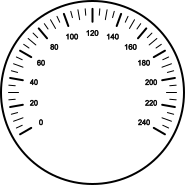
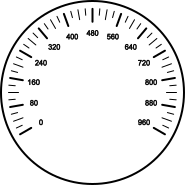
Adjusted GUI element margin

diff --git a/simulator/guitest_4.py b/simulator/guitest_4.py
@@ -11,7 +11,7 @@ from PyQt5 import QtGui
 from PyQt5 import QtCore
 from PyQt5.QtCore import pyqtSignal, QPoint, Qt
 from PyQt5.QtWebEngineWidgets import QWebEngineView
-from PyQt5.QtWidgets import QApplication, QWidget, QVBoxLayout, QHBoxLayout, QLabel, QPushButton, QLineEdit, QMainWindow, QGridLayout, QFrame
+from PyQt5.QtWidgets import QApplication, QWidget, QVBoxLayout, QHBoxLayout, QLabel, QPushButton, QLineEdit, QMainWindow, QGridLayout, QFrame, QSizePolicy
 from PyQt5.QtGui import QPainter, QPolygon, QColor, QPen
 import matplotlib.pyplot as plt
 from matplotlib.backends.backend_qt5agg import FigureCanvasQTAgg as FigureCanvas
@@ -44,11 +44,11 @@ class readTable(QWidget):
         long1 = float(row['LONGITUDE'])
         head1 = float(row['HEADING'])
         spd = float(row['STW'])
-        sfc1 = int(float(row['ENGINE_1_FUEL_CONSUMPTION']) + float(row['ENGINE_2_FUEL_CONSUMPTION']))
+        sfc1 = int((float(row['ENGINE_1_FUEL_CONSUMPTION']) + float(row['ENGINE_2_FUEL_CONSUMPTION']))/2)
 
         next_row = self.table[index + 1]
         head2 = float(next_row['HEADING'])
-        sfc2 = int(float(next_row['ENGINE_1_FUEL_CONSUMPTION']) + float(next_row['ENGINE_2_FUEL_CONSUMPTION']))
+        sfc2 = int((float(next_row['ENGINE_1_FUEL_CONSUMPTION']) + float(next_row['ENGINE_2_FUEL_CONSUMPTION']))/2)
         if next_row:
             lat2 = float(next_row['LATITUDE'])
             long2 = float(next_row['LONGITUDE'])
@@ -61,7 +61,7 @@ class readTable(QWidget):
 class compass(QWidget):
     def __init__(self):
         super(compass, self).__init__()
-        self.setFixedSize(190, 250)
+        self.setFixedSize(190, 210)
         self.init_ui()
 
     def init_ui(self):
@@ -79,15 +79,17 @@ class compass(QWidget):
 
         # Add a label widget to name the dial
         self.label = QLabel('Heading')
-        self.label.setFixedSize(80, 20)
-        self.label.setAlignment(Qt.AlignCenter)
+        # self.label.setStyleSheet("background: rgb(255, 0, 0 );")
+        self.label.setSizePolicy(QSizePolicy.Expanding, QSizePolicy.Fixed)
+        # self.label.setFixedHeight(30)
+        self.label.setAlignment(Qt.AlignTop | Qt.AlignCenter)
         layout.addWidget(self.label)
 
         self.setLayout(layout)
 
     # Rorate the 'indicator_heading.png' image to the optimal position and replace the old one
     def update(self, rot_c, rot_i):
-        rot_i = (rot_i/1500)*270 - 135 + 90
+        rot_i = -(rot_i-rot_c)
 
         rot_indicator = QtGui.QPixmap.fromImage(ImageQt(self.indicator_new.rotate(-int(rot_i))))
         self.speedometer_ui.indicator.setPixmap(rot_indicator)
@@ -96,7 +98,7 @@ class compass(QWidget):
 class sfcDial(QWidget):
     def __init__(self):
         super(sfcDial, self).__init__()
-        self.setFixedSize(190, 250)
+        self.setFixedSize(190, 210)
         self.init_ui()
 
     def init_ui(self):
@@ -115,16 +117,21 @@ class sfcDial(QWidget):
 
         # Add a label to name the dial
         self.label = QLabel('SFC')
-        self.label.setFixedSize(80, 20)
-        self.label.setAlignment(Qt.AlignCenter)
+        # self.label.setFixedSize(80, 20)
+        # self.label.setAlignment(Qt.AlignCenter)
+        # self.label.setStyleSheet("background: rgb(255, 0, 0 );")
+        self.label.setSizePolicy(QSizePolicy.Expanding, QSizePolicy.Fixed)
+        # self.label.setFixedHeight(30)
+        self.label.setAlignment(Qt.AlignTop | Qt.AlignCenter)
         layout.addWidget(self.label)
+
 
         self.setLayout(layout)
 
     # Rotate the 'needle_spd.png' to show current SFC and 'indicator_spd.png' to show optimal SFC and replace the old ones
     def update(self, rot_n, rot_i):
-        rot_n = (rot_n/1500)*270 - 135
-        rot_i = (rot_i/1500)*270 - 135
+        rot_n = (rot_n/960)*240
+        rot_i = (rot_i/960)*240
 
         rot_needle = QtGui.QPixmap.fromImage(ImageQt(self.needle_new.rotate(-int(rot_n))))
         rot_indicator = QtGui.QPixmap.fromImage(ImageQt(self.indicator_new.rotate(-int(rot_i))))
@@ -134,7 +141,8 @@ class sfcDial(QWidget):
 # SFC plot
 class Canvas(FigureCanvas):
     def __init__(self, parent):
-        self.fig, self.ax = plt.subplots(figsize=(4.05, 1.9), dpi=100)
+        # self.fig, self.ax = plt.subplots(figsize=(4.05, 1.9), dpi=100)
+        self.fig, self.ax = plt.subplots(figsize=(1, 1), dpi=100)
         super().__init__(self.fig)
         self.setParent(parent)
 
@@ -144,6 +152,8 @@ class Canvas(FigureCanvas):
         self.line_2, = self.ax.plot(self.data_2, label='Optimal SFC')
 
         self.ax.set(xlabel='time (min)', ylabel='SFC (L/h)', title='SFC')
+        # adjust plot margin to show axis names
+        self.fig.subplots_adjust(left=0.22, right=0.9, top=0.88, bottom=0.25)
         self.ax.legend()
         self.ax.grid()
 
@@ -165,6 +175,9 @@ class AppDemo(QWidget):
         super().__init__()
 
         self.chart = Canvas(self)
+        layout = QHBoxLayout(self)
+        layout.setContentsMargins(0, 0, 0, 0)
+        layout.addWidget(self.chart)
 
     def add_data(self, new_value_1, new_value_2):
         self.chart.update_plot(new_value_1, new_value_2)
@@ -185,9 +198,13 @@ class infoDisplay(QWidget):
         # Need to initialize self.lables with the info we want to show
         # Then add each label widget in self.labels to the grid
         self.labels = []
+        self.variables = ['Latitude', 'Longitude', 'Speed', 'Heading']
         for i in range(2):
             for j in range(4):
-                label = QLabel(f'Label {i * 4 + j + 1}', self)
+                if (i * 4 + j) < len(self.variables):
+                    label = QLabel(self.variables[i*4+j], self)
+                else:
+                    label = QLabel(f'Label {i * 4 + j + 1}', self)
                 label.setFrameShape(QFrame.Box)
                 #label.setStyleSheet("padding: 5px; border: 1px solid white; color: white;")
                 #label.setStyleSheet("padding: 5px; border: 1px solid white")
@@ -195,7 +212,7 @@ class infoDisplay(QWidget):
                 self.grid.addWidget(label, i, j)
                 self.labels.append(label)
 
-        self.change_page(self.current_page)
+        #self.change_page(self.current_page)
 
         # Create buttons for changing page
         self.prev_button = QPushButton('←', self)
@@ -221,8 +238,12 @@ class infoDisplay(QWidget):
     # Make the change_page method only change index, not label text
     def change_page(self, page):
         start_index = page * 8
-        for i in range(8):
-            self.labels[i].setText(f'Label {start_index + i + 1}')
+        for i in range(2):
+            for j in range(4):
+                if (i * 4 + j) < len(self.variables):
+                    label = QLabel(self.variables[i*4+j], self)
+                else:
+                    label = QLabel(f'Label {i * 4 + j + 1}', self)
 
     def prev_page(self):
         if self.current_page > 0:
@@ -297,6 +318,7 @@ class numPad(QWidget):
             for buttonText in row:
                 button = QPushButton(buttonText)
                 button.clicked.connect(self.buttonClicked)
+                button.setSizePolicy(QSizePolicy.Expanding, QSizePolicy.Expanding)
                 rowLayout.addWidget(button)
 
             layout.addLayout(rowLayout)
@@ -339,22 +361,42 @@ class gui(QWidget):
         # For receiving the nuttonClicked signal to update other information
         self.pad.buttonClickedSignal.connect(self.updateETA)
 
-        layout = QHBoxLayout()
-        subLayout1 = QHBoxLayout()
-        subLayout2 = QVBoxLayout()
-        subLayout3 = QVBoxLayout()
+        # layout = QHBoxLayout()
+        # subLayout1 = QHBoxLayout()
+        # subLayout2 = QVBoxLayout()
+        # subLayout3 = QVBoxLayout()
+        #
+        # subLayout1.addWidget(self.compass)
+        # subLayout1.addWidget(self.dial)
+        # subLayout2.addLayout(subLayout1)
+        # subLayout2.addWidget(self.plot)
+        # subLayout3.addWidget(self.info)
+        # subLayout3.addWidget(self.pad)
+        # layout.addLayout(subLayout2)
+        # layout.addLayout(subLayout3)
+        #
+        # self.setLayout(layout)
 
-        subLayout1.addWidget(self.compass)
-        subLayout1.addWidget(self.dial)
-        subLayout2.addLayout(subLayout1)
-        subLayout2.addWidget(self.plot)
-        subLayout3.addWidget(self.info)
-        subLayout3.addWidget(self.pad)
-        layout.addLayout(subLayout2)
-        layout.addLayout(subLayout3)
+        # adjust margin, setContentsMargins
+        layout = QGridLayout()
+        layout.setContentsMargins(10, 10, 10, 10)
+        layout.setSpacing(10)
+        layout.addWidget(self.compass, 0, 0, 4, 2) # assign row and column number to elements
+        layout.addWidget(self.dial, 0, 2, 4, 2)
+        layout.addWidget(self.plot, 4, 0, 6, 4)
+        layout.addWidget(self.info, 0, 4, 3, 2)
+        layout.addWidget(self.pad, 3, 4, 7, 2)
+
+        # layout = QGridLayout()
+        # layout.setContentsMargins(10, 10, 10, 10)
+        # layout.setSpacing(10)
+        # layout.addWidget(self.compass, 0, 0, 4, 2)
+        # layout.addWidget(self.dial, 0, 2, 4, 2)
+        # layout.addWidget(self.plot, 4, 0, 8, 4)
+        # layout.addWidget(self.info, 0, 4, 3, 2)
+        # layout.addWidget(self.pad, 3, 4, 7, 2)
 
         self.setLayout(layout)
-
         self.setWindowTitle('GUI')
         self.setGeometry(320, 220, 800, 480)
 
